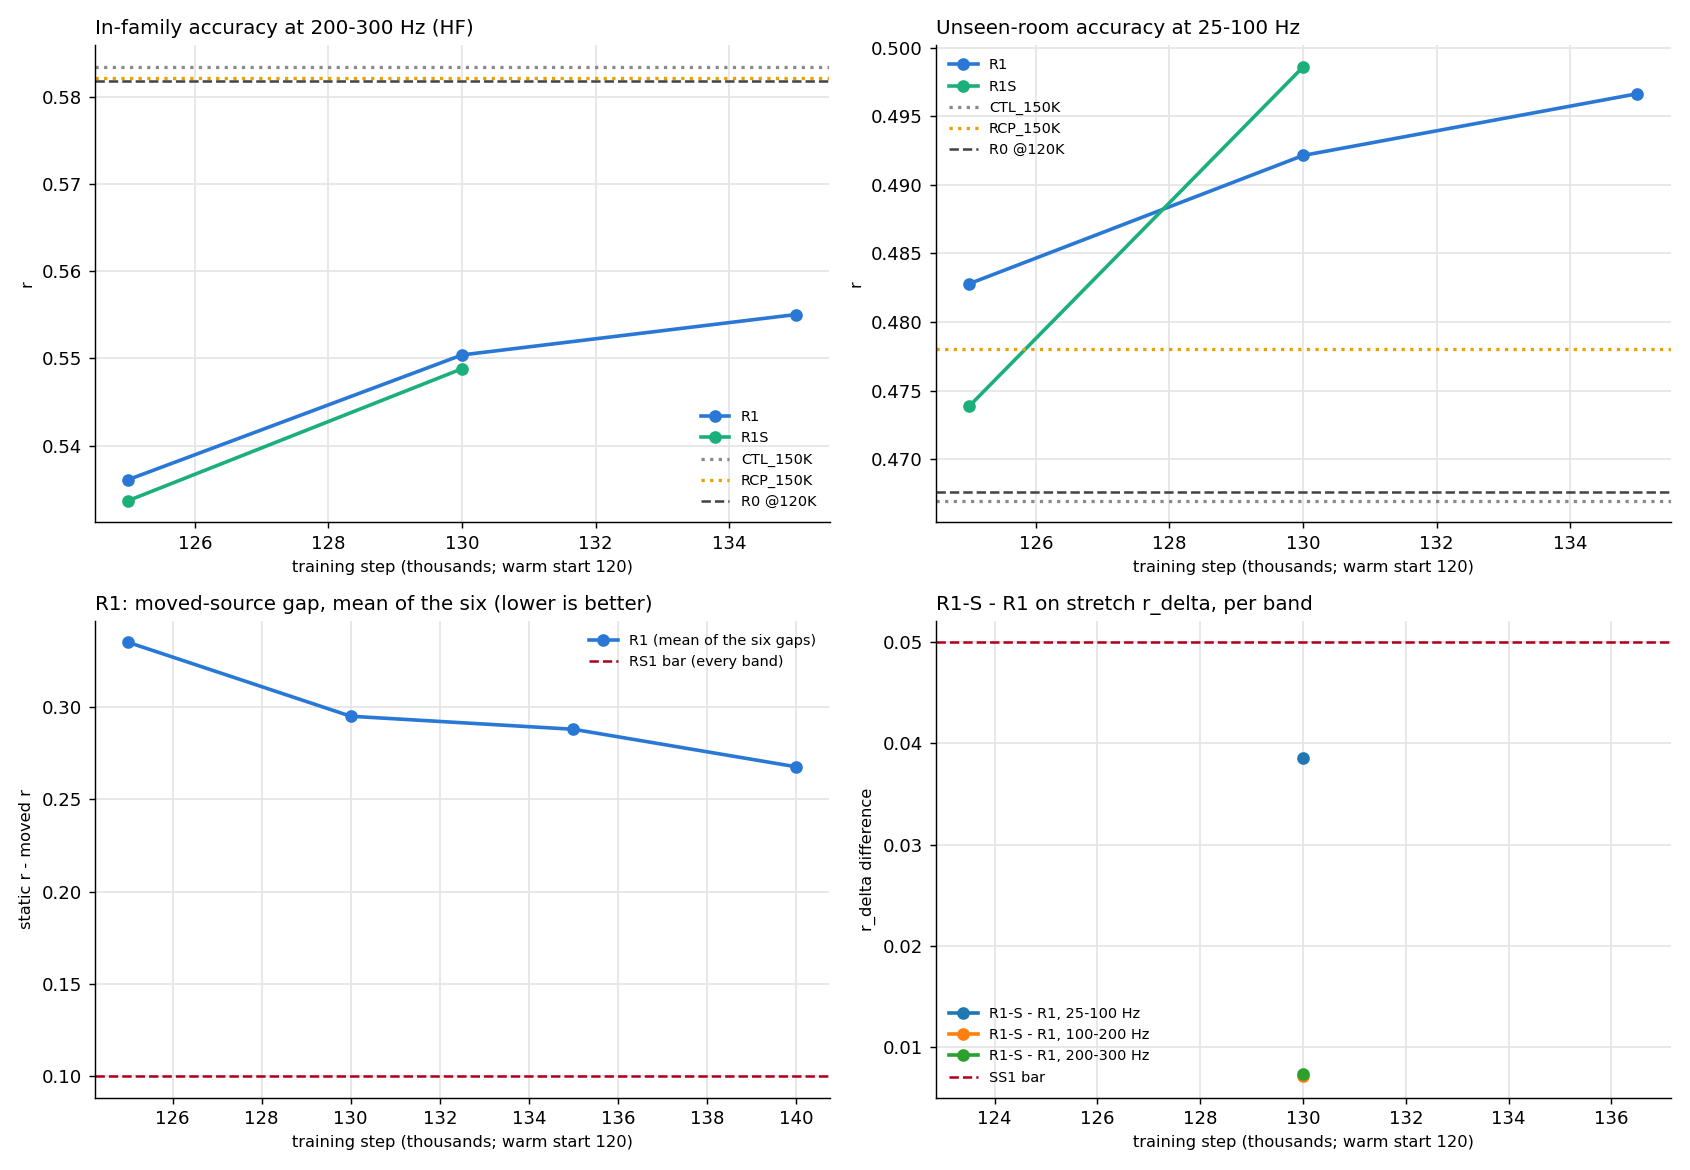
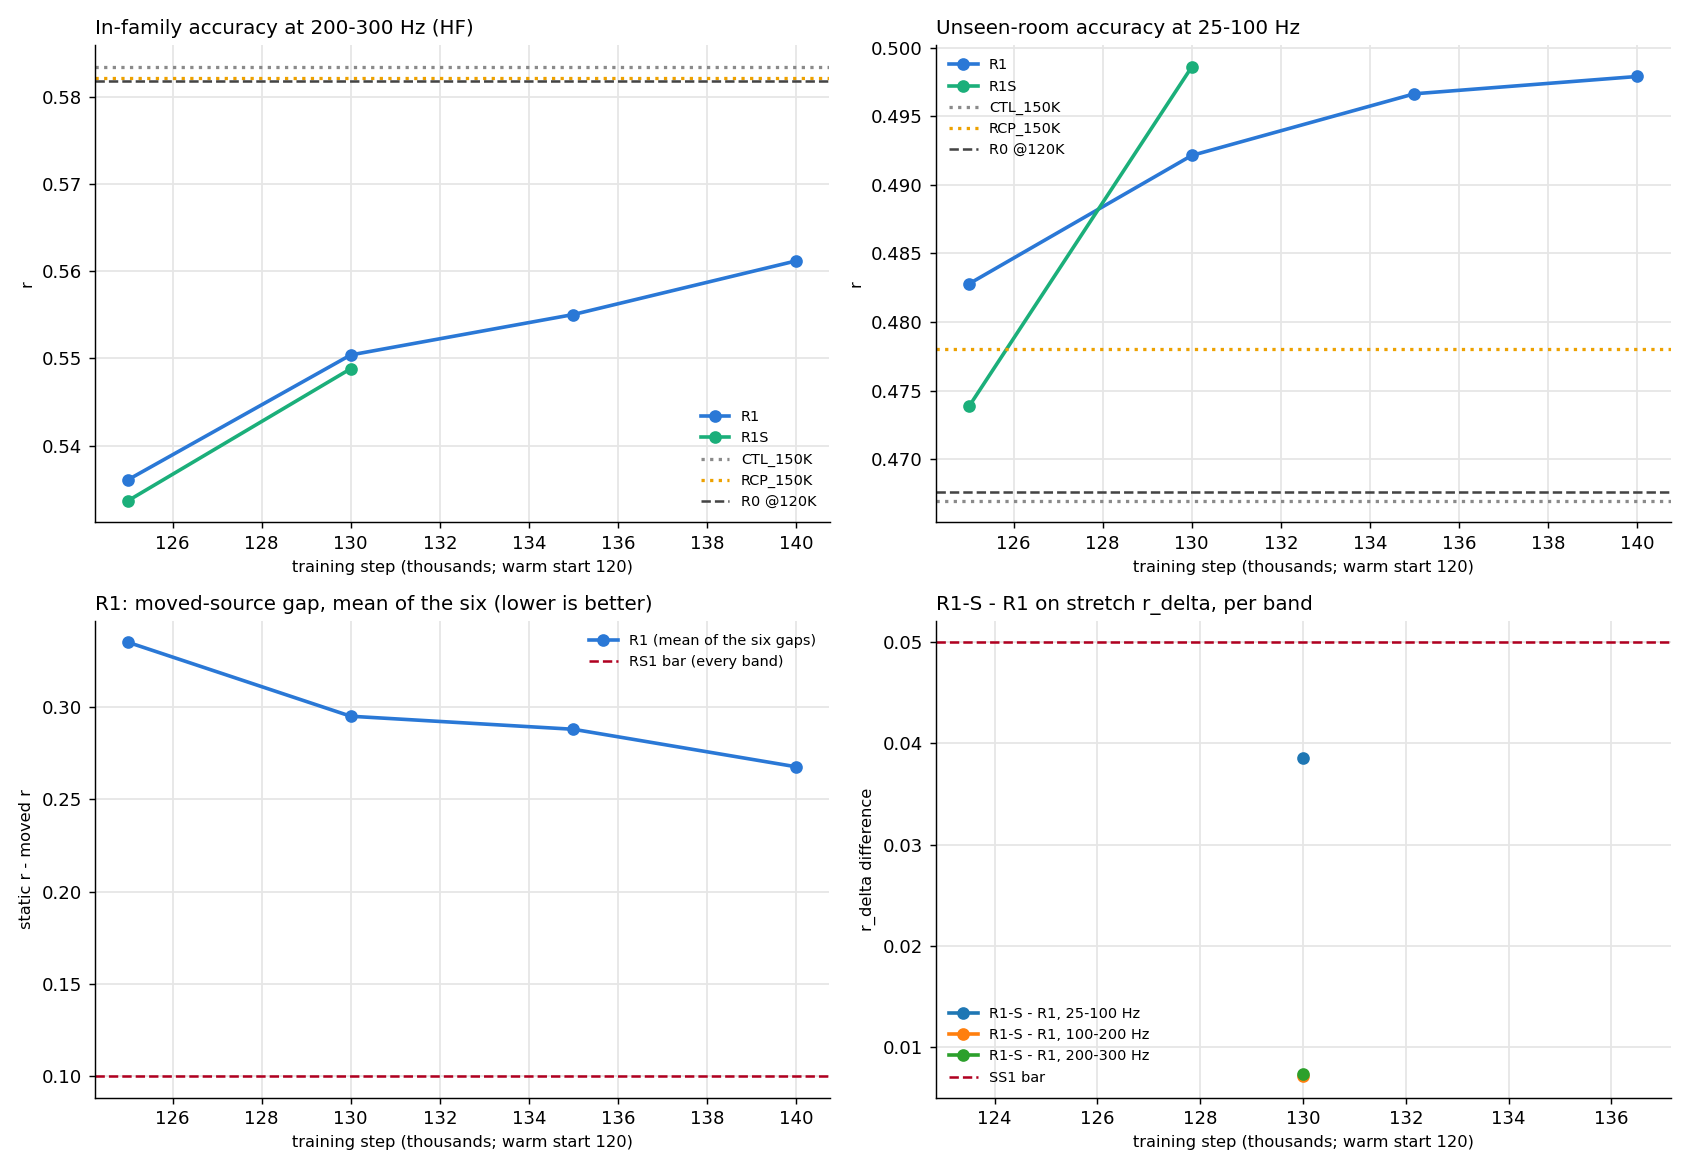
P4-10: R1 @140K static read (HF -0.022 vs CTL @150K); R1-S 135K read slips to about 20:25 (slow render node, requeued)

diff --git a/tasks/P4_10_STATUS_REPORT.md b/tasks/P4_10_STATUS_REPORT.md
@@ -3,6 +3,16 @@
 **Pre-registration:** D195 (spec, verbatim; also `tasks/P4_10_SPEC.md`), D196 (progress contract), D197 (amendments A1-A14), D198 (edit manifest frozen), D199 (per-edge absorption validated). The P4-9 erratum (D194) corrects a premise the spec inherited.
 **Board:** [board.md](https://raw.githubusercontent.com/harshvardhan-takawale/adaptable-acoustic-fields/main/outputs/p4_10/progress/board.md). One dated entry per read, newest first, entry times from `date`. Raw links checked for 200.
 
+## 2026-11-23 (19:56) — I8, static part (R1 @+20K): R1's cost at the original source is now 0.022 at 200-300 Hz; R1-S @+15K's read slips, new ETA about 20:25
+
+**Headline:** R1's accuracy at the original source in known rooms is 0.022 below the plain continuation (CTL @150K) at 200-300 Hz, down from 0.047, 0.033 and 0.028 at +5K, +10K and +15K; the no-harm rule (RC1, judged at +30K) allows 0.020. Unseen rooms are still ahead in every band.
+
+- **R1 @140K:** HF 0.561 (0.555 at +15K), UF 0.498 / 0.407 / 0.393; test r 0.905 / 0.675 / 0.561. Against CTL @150K: HF -0.022 [-0.029, -0.016]; UF +0.031 [+0.018, +0.044] / +0.032 [+0.021, +0.044] / +0.020 [+0.009, +0.032]. Against CTL @140K (matched step): HF -0.020 [-0.026, -0.015]. (CTL @150K HF 0.583, UF 0.467 / 0.376 / 0.373; R0 @120K HF 0.582, UF 0.468 / 0.380 / 0.371.)
+- **Change R1 @140K - @130K:** HF +0.011 [+0.006, +0.016], UF 25-100 +0.006 [+0.001, +0.011]. Nothing is concluded for RC1 before +30K.
+- **Slip, R1-S @135K (+15K):** one render task ran slowly (tron36), was requeued to another node with no file loss (its 55 finished predictions and 15 original-room renders were checked and are intact). The read is expected at about 20:25 instead of 20:13.
+
+Links: [board.md](https://raw.githubusercontent.com/harshvardhan-takawale/adaptable-acoustic-fields/main/outputs/p4_10/progress/board.md)
+
 ## 2026-11-23 (19:42) — R1-P's gate (0d) FAILS: R1-P will not be launched (D205)
 
 **Headline:** We tested, without training, whether a physics-based penalty could improve the model's fields: the mean-value identity for waves says a field's average over a small circle equals a known multiple of its centre value. The model's raw field breaks this identity only 1.3 to 1.5 times as much as its smoothed (band-limited) version, not the 3 times the pre-registered gate requires, so the planned penalty would have almost nothing to remove. R1-P is not launched.

diff --git a/outputs/p4_10/progress/board.md b/outputs/p4_10/progress/board.md
@@ -1,10 +1,10 @@
 # P4-10 progress board
 
-Built 2026-11-23 19:35 (from JSON on disk; every read is a scored checkpoint).
+Built 2026-11-23 19:56 (from JSON on disk; every read is a scored checkpoint).
 
-**Next reads (from each arm's training log):** R1: step 142000 at 0.78 s/step, next read 145000 at about 20:14 ET (posted within 1 h of it); R1M: step 121800 at 0.79 s/step, next read 125000 at about 20:17 ET (posted within 1 h of it); R1S: step 136600 at 0.83 s/step, next read 140000 at about 20:22 ET (posted within 1 h of it)
+**Next reads (from each arm's training log):** R1: step 143800 at 0.78 s/step, next read 145000 at about 20:12 ET (posted within 1 h of it); R1M: step 123400 at 0.81 s/step, next read 125000 at about 20:18 ET (posted within 1 h of it); R1S: step 138000 at 0.82 s/step, next read 140000 at about 20:24 ET (posted within 1 h of it)
 
-**Running jobs:** aaf_board x1, aaf_0d_render x1, aaf_backstop x1, aaf_sc_R1S_135K x5, aaf_p4_5_eval x1, aaf_g2dense x2, aaf_oof x2, aaf_unseen_ev x2, aaf_r1 x1, aaf_r1s x1, aaf_r1m x1
+**Running jobs:** aaf_speckle_an x1, aaf_backstop x1, aaf_r1 x1, aaf_r1s x1, aaf_r1m x1
 
 ## R1 -- in-family moved-source gap, band mean, second and third source (bar: each band <= 0.10)
 
@@ -13,7 +13,7 @@ Built 2026-11-23 19:35 (from JSON on disk; every read is a scored checkpoint).
 | R1_125K | 0.536 | 0.483 / 0.393 / 0.377 | -0.047 [-0.054, -0.041] | +0.016 [+0.003, +0.028] |
 | R1_130K | 0.550 | 0.492 / 0.398 / 0.393 | -0.033 [-0.039, -0.027] | +0.025 [+0.011, +0.040] |
 | R1_135K | 0.555 | 0.497 / 0.412 / 0.398 | -0.028 [-0.035, -0.022] | +0.030 [+0.018, +0.043] |
-| R1_140K | pending | | | |
+| R1_140K | 0.561 | 0.498 / 0.407 / 0.393 | -0.022 [-0.029, -0.016] | +0.031 [+0.018, +0.044] |
 
 Moved-source gap = static r on the original room - r at the moved source (in-family lite rooms; lower is better). Bar: <= 0.10 in every band.
 
